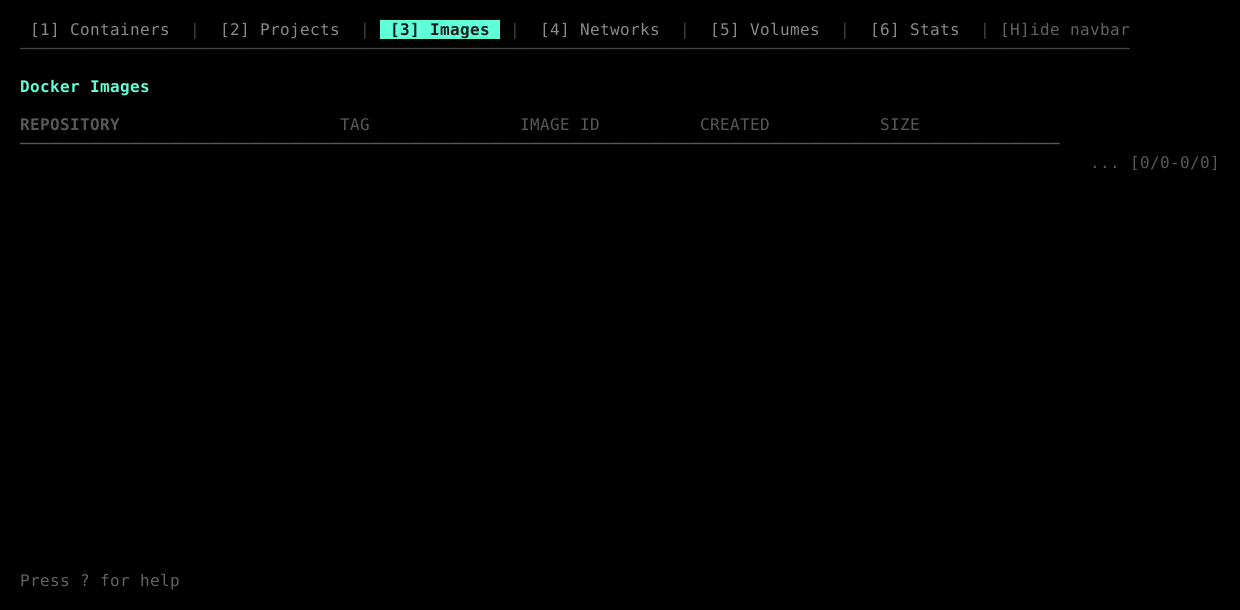
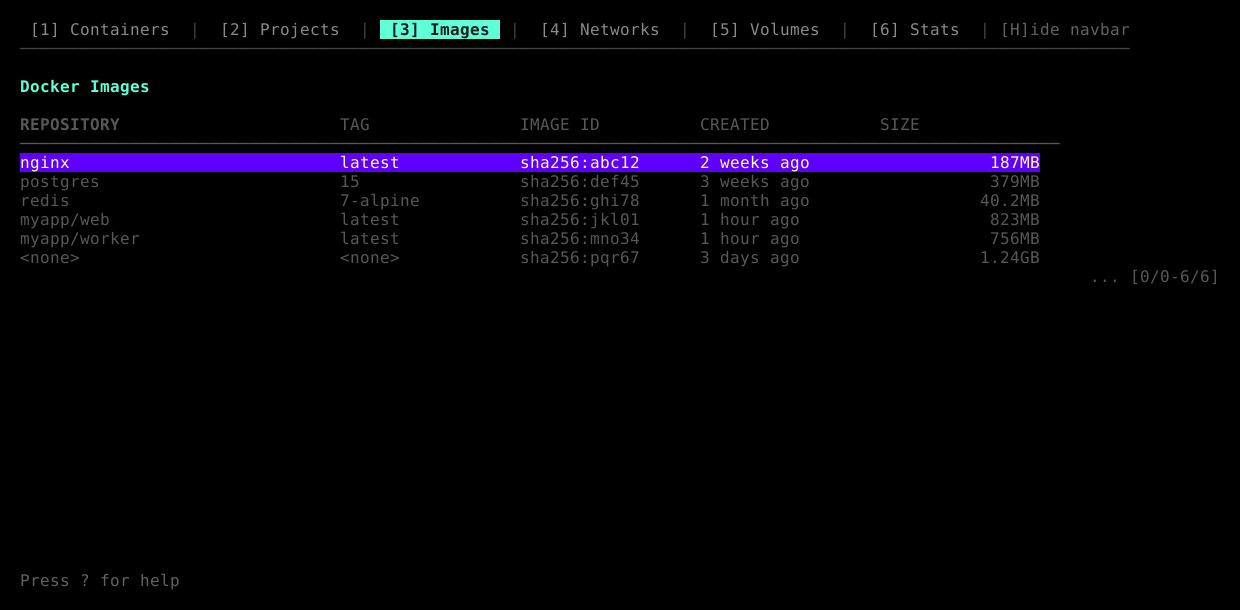
fix screenshots

Changed region(s): [[0.0, 0.2492, 0.8581, 0.4361], [0.9194, 0.4361, 0.9806, 0.4672], [0.9194, 0.2492, 0.9806, 0.2803]]

diff --git a/internal/ui/screenshot_helpers.go b/internal/ui/screenshot_helpers.go
@@ -43,6 +43,12 @@ func (m *Model) GetImageListViewModel() *ImageListViewModel {
 
 func (vm *ImageListViewModel) SetImages(images []models.DockerImage) {
 	vm.dockerImages = images
+	// Build rows for table rendering
+	vm.Rows = vm.buildRows()
+	// Set End to show all rows initially
+	if len(vm.Rows) > 0 {
+		vm.End = len(vm.Rows)
+	}
 }
 
 func (m *Model) GetNetworkListViewModel() *NetworkListViewModel {
